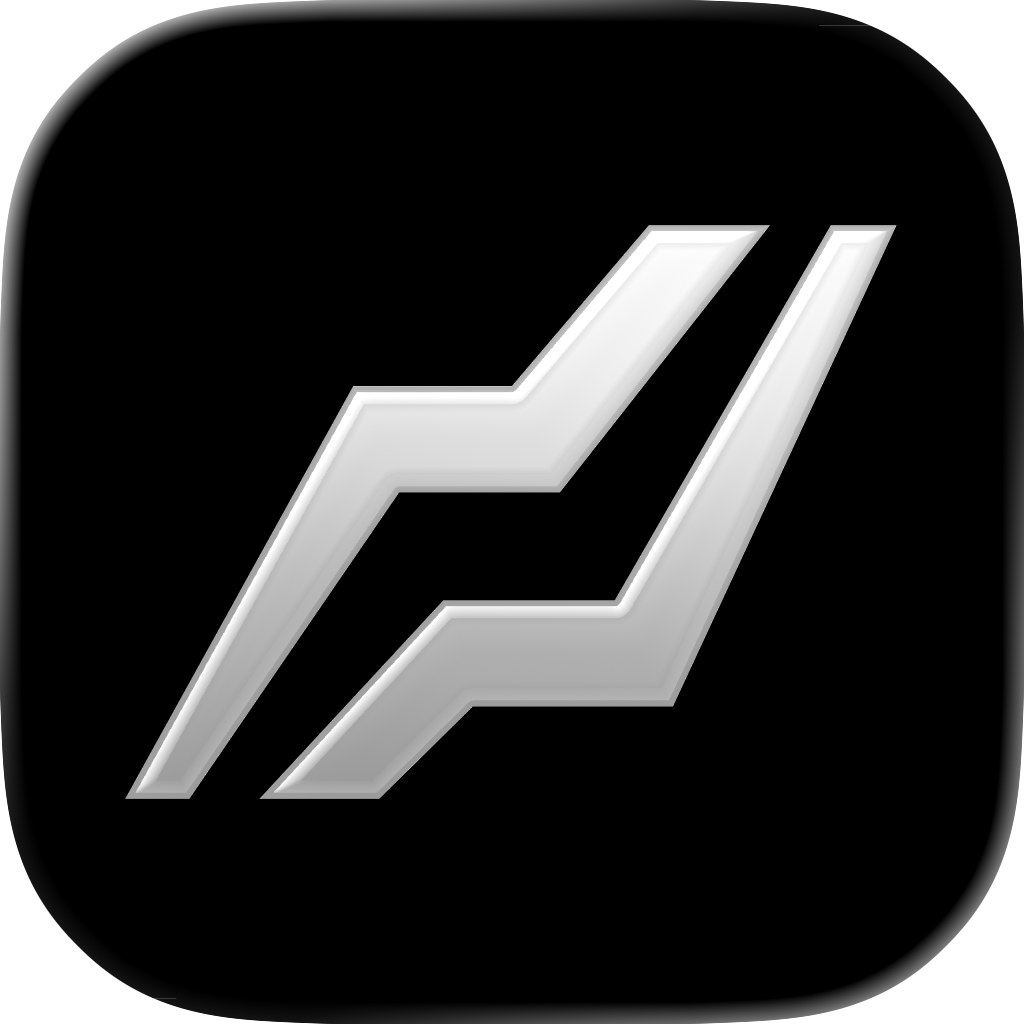
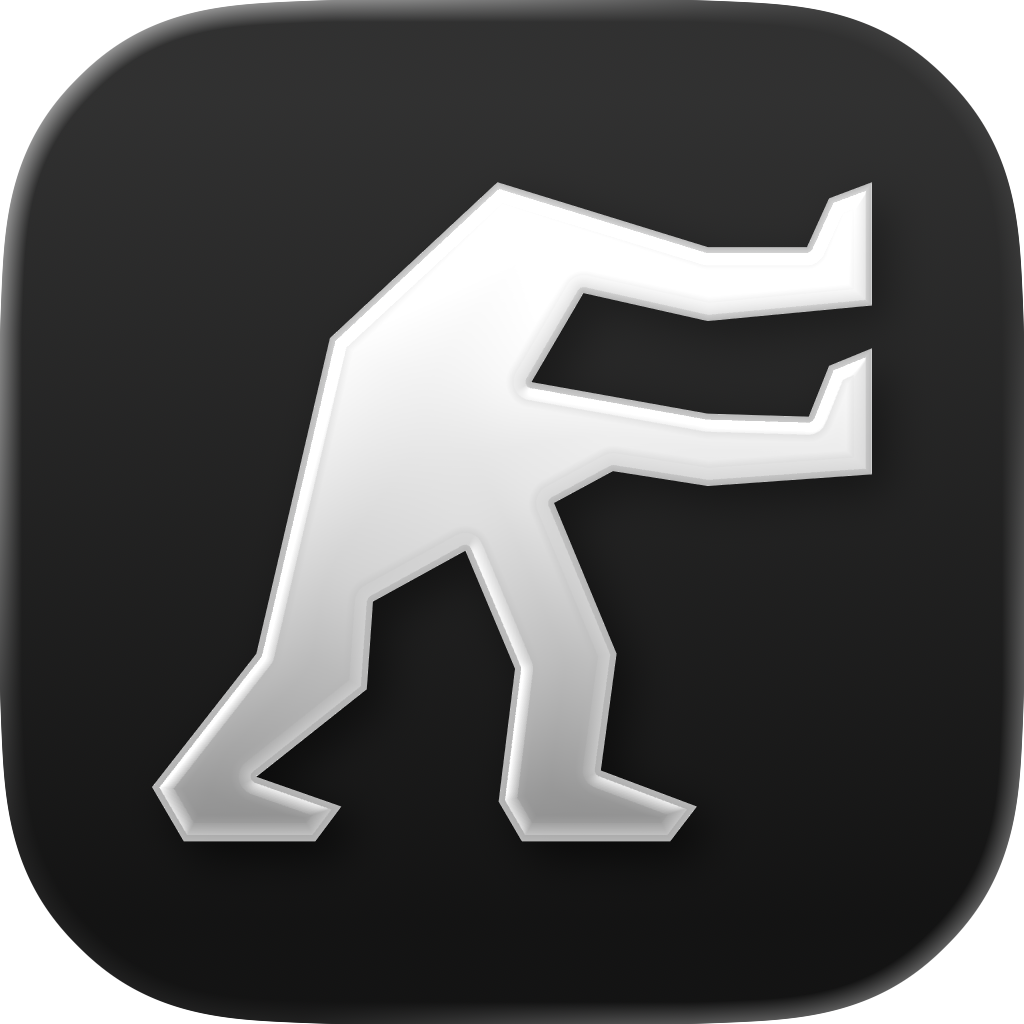
Rebrand to Pushed; drop the light/dark toggle (dark-only for now)
- Rename the app to "Pushed" everywhere user-facing: auth screen, page
  title, PWA manifest, share sheet, bug-report subject, CSV/JSON export
  filenames, and the privacy/terms pages. Internal storage keys and the
  "progressive overload" training term are intentionally left as-is.
- Swap in the new Pushed mark/wordmark SVGs and the new app icon
  (apple-touch-icon + favicon, cache-busted), plus an apple web-app title.
- Ship dark-only: force loadTheme() to 'dark' and remove the Appearance
  (Dark/Light/System) toggle from Settings and its plumbing. The light
  theme CSS stays in the tree, just unreachable until the toggle returns.

diff --git a/src/components/ScheduleModal.tsx b/src/components/ScheduleModal.tsx
@@ -9,7 +9,6 @@ import type { WorkoutLog } from '../types';
 import type { Exercise } from '../types';
 import type { WeightUnit, WeekStartDay } from '../hooks/useSettings';
 import { ACCENTS, ACCENT_ORDER, type AccentKey } from '../lib/accent';
-import type { ThemeMode } from '../lib/theme';
 import {
   CATEGORY_LABELS, CATEGORY_PALETTE,
   type CategoryColors, type CategoryKey,
@@ -46,8 +45,6 @@ interface Props {
   onSetHapticsEnabled: (on: boolean) => void;
   accent: AccentKey;
   onSetAccent: (key: AccentKey) => void;
-  theme: ThemeMode;
-  onSetTheme: (mode: ThemeMode) => void;
   categoryColors: CategoryColors;
   onSetCategoryColor: (key: CategoryKey, paletteKey: string) => void;
   bio: string | null;
@@ -267,8 +264,6 @@ export default function ScheduleModal({
   onSetHapticsEnabled,
   accent,
   onSetAccent,
-  theme,
-  onSetTheme,
   categoryColors,
   onSetCategoryColor,
   bio,
@@ -473,28 +468,6 @@ export default function ScheduleModal({
               both write the same setting. */}
           <div className="te-panel rounded-te-md overflow-hidden mt-3 divide-y divide-[color:var(--te-border)]">
             <div className="px-4 py-3.5">
-              <p className="text-[15px] font-medium te-t1 tracking-tight">Appearance</p>
-              <p className="text-[13px] te-t3 mt-0.5 leading-snug">Light or dark, or follow your device</p>
-              <div className="grid grid-cols-3 gap-2 mt-3">
-                {(['dark', 'light', 'system'] as const).map(mode => {
-                  const selected = theme === mode;
-                  const label = mode === 'dark' ? 'Dark' : mode === 'light' ? 'Light' : 'System';
-                  return (
-                    <button
-                      key={mode}
-                      type="button"
-                      onClick={() => onSetTheme(mode)}
-                      className={`${selected ? 'te-toggle-on' : 'te-toggle-off'} rounded-te-sm py-2.5 text-[13px] font-semibold tracking-tight`}
-                      style={{ color: selected ? 'var(--te-accent-contrast)' : 'var(--te-text-2)' }}
-                    >
-                      {label}
-                    </button>
-                  );
-                })}
-              </div>
-            </div>
-
-            <div className="px-4 py-3.5">
               <p className="text-[15px] font-medium te-t1 tracking-tight">Accent color</p>
               <p className="text-[13px] te-t3 mt-0.5 leading-snug">Toggles and body models</p>
               <div className="flex items-center gap-2.5 mt-3">
@@ -618,7 +591,7 @@ export default function ScheduleModal({
       <Modal open={dataMenuOpen} onClose={() => setDataMenuOpen(false)} title="Export data">
         <div className="te-panel rounded-te-md overflow-hidden divide-y divide-white/[0.05]">
           <button
-            onClick={() => downloadFile(buildCsv(logs, exercises), 'overload-export.csv', 'text/csv')}
+            onClick={() => downloadFile(buildCsv(logs, exercises), 'pushed-export.csv', 'text/csv')}
             className="w-full flex items-center justify-between px-4 py-3.5 active:bg-white/[0.04] transition-colors text-left"
           >
             <div>
@@ -630,7 +603,7 @@ export default function ScheduleModal({
           <button
             onClick={() => downloadFile(
               JSON.stringify({ exported_at: new Date().toISOString(), exercises, logs }, null, 2),
-              'overload-export.json', 'application/json',
+              'pushed-export.json', 'application/json',
             )}
             className="w-full flex items-center justify-between px-4 py-3.5 active:bg-white/[0.04] transition-colors text-left"
           >

diff --git a/public/terms.html b/public/terms.html
@@ -4,7 +4,7 @@
   <meta charset="UTF-8" />
   <meta name="viewport" content="width=device-width, initial-scale=1.0" />
   <meta name="robots" content="all" />
-  <title>Terms of Service — Overload</title>
+  <title>Terms of Service — Pushed</title>
   <style>
     :root { color-scheme: light dark; }
     * { box-sizing: border-box; }
@@ -39,17 +39,17 @@
 <body>
   <div class="wrap">
     <h1>Terms of Service</h1>
-    <p class="muted">Overload · Last updated 16 July 2026</p>
+    <p class="muted">Pushed · Last updated 16 July 2026</p>
 
     <p>
-      These Terms of Service ("Terms") govern your use of <strong>Overload</strong>
+      These Terms of Service ("Terms") govern your use of <strong>Pushed</strong>
       (the "Service"). By creating an account or using the Service, you agree to
       these Terms. If you do not agree, please do not use the Service.
     </p>
 
     <h2>1. The Service</h2>
     <p>
-      Overload is a gym logging and progress-tracking application that lets you
+      Pushed is a gym logging and progress-tracking application that lets you
       record workouts, track progress, and take part in friend leaderboards and
       competitions. We may add, change, or remove features over time.
     </p>
@@ -82,7 +82,7 @@
 
     <h2>5. Health and fitness disclaimer</h2>
     <p>
-      Overload is a tracking tool, not a medical or professional fitness service.
+      Pushed is a tracking tool, not a medical or professional fitness service.
       It does not provide medical advice. Exercise carries inherent risks. Consult
       a qualified physician before beginning any exercise program, and stop and seek
       medical attention if you experience pain or discomfort. You use the Service
@@ -105,7 +105,7 @@
 
     <h2>8. Limitation of liability</h2>
     <p>
-      To the fullest extent permitted by law, Overload and its operators will not be
+      To the fullest extent permitted by law, Pushed and its operators will not be
       liable for any indirect, incidental, special, consequential, or punitive
       damages, or for any loss of data, arising out of or related to your use of the
       Service.
@@ -132,7 +132,7 @@
     </p>
 
     <hr />
-    <p><a href="/privacy.html">Privacy Policy</a> · <a href="/">Back to Overload</a></p>
+    <p><a href="/privacy.html">Privacy Policy</a> · <a href="/">Back to Pushed</a></p>
 
     <div class="note">
       This document is provided as a general template. It is not legal advice.

diff --git a/public/privacy.html b/public/privacy.html
@@ -4,7 +4,7 @@
   <meta charset="UTF-8" />
   <meta name="viewport" content="width=device-width, initial-scale=1.0" />
   <meta name="robots" content="all" />
-  <title>Privacy Policy — Overload</title>
+  <title>Privacy Policy — Pushed</title>
   <style>
     :root { color-scheme: light dark; }
     * { box-sizing: border-box; }
@@ -39,10 +39,10 @@
 <body>
   <div class="wrap">
     <h1>Privacy Policy</h1>
-    <p class="muted">Overload · Last updated 16 July 2026</p>
+    <p class="muted">Pushed · Last updated 16 July 2026</p>
 
     <p>
-      This Privacy Policy explains how <strong>Overload</strong> ("Overload", "we",
+      This Privacy Policy explains how <strong>Pushed</strong> ("Pushed", "we",
       "us") collects, uses, and protects your information when you use our gym
       logging and progress-tracking application (the "Service"). By using the
       Service you agree to the practices described here.
@@ -97,7 +97,7 @@
 
     <h2>3. Google user data</h2>
     <p>
-      Overload's use and transfer of information received from Google APIs adheres
+      Pushed's use and transfer of information received from Google APIs adheres
       to the
       <a href="https://developers.google.com/terms/api-services-user-data-policy" target="_blank" rel="noopener">Google API Services User Data Policy</a>,
       including its Limited Use requirements. We use Google sign-in solely to
@@ -158,7 +158,7 @@
     </p>
 
     <hr />
-    <p><a href="/terms.html">Terms of Service</a> · <a href="/">Back to Overload</a></p>
+    <p><a href="/terms.html">Terms of Service</a> · <a href="/">Back to Pushed</a></p>
 
     <div class="note">
       This document is provided as a general template describing the app's actual

diff --git a/src/views/AuthView.tsx b/src/views/AuthView.tsx
@@ -249,12 +249,12 @@ export default function AuthView({ onSignIn, onSignUp, onResend, onVerifyOtp, on
           <div className="flex flex-col items-center gap-2.5 w-full">
             <img
               src="/logo-mark.svg"
-              alt="Overload"
-              className="w-20 h-20"
+              alt="Pushed"
+              className="h-20 w-auto"
             />
             <div className="flex flex-col items-center gap-1">
               <p className="text-[20px] font-semibold te-t1 tracking-[-0.17px] text-center inline-flex items-center gap-1.5">
-                Welcome back to Overload!
+                Welcome back to Pushed!
                 <span className="inline-flex items-center" style={{ transform: 'rotate(35deg)' }} aria-hidden><IconWave /></span>
               </p>
               <p className="text-[17px]" style={{ color: 'var(--te-text-3)' }}>
@@ -358,13 +358,13 @@ export default function AuthView({ onSignIn, onSignUp, onResend, onVerifyOtp, on
             />
             <img
               src="/apple-touch-icon.png"
-              alt="Overload"
+              alt="Pushed"
               className="relative w-[44px] h-[44px] rounded-te-md"
               style={{ boxShadow: '0 4px 16px rgba(0,0,0,0.5)' }}
             />
           </div>
           <p className="text-[20px] font-bold te-t1" style={{ letterSpacing: '-0.03em' }}>
-            Overload
+            Pushed
           </p>
         </div>
 

diff --git a/src/App.tsx b/src/App.tsx
@@ -332,7 +332,6 @@ function MainApp({ userId, onSignOut, userName, onUpdateName }: {
     soundEnabled, setSoundEnabled,
     hapticsEnabled, setHapticsEnabled,
     accent, setAccent,
-    theme, setTheme,
     categoryColors, setCategoryColor,
     weekStartDay, setWeekStartDay,
   } = useSettings();
@@ -1265,8 +1264,6 @@ function MainApp({ userId, onSignOut, userName, onUpdateName }: {
         onSetHapticsEnabled={setHapticsEnabled}
         accent={accent}
         onSetAccent={setAccent}
-        theme={theme}
-        onSetTheme={setTheme}
         categoryColors={categoryColors}
         onSetCategoryColor={setCategoryColor}
         bio={profileRow?.bio ?? null}
@@ -1305,7 +1302,7 @@ function PasswordResetScreen({ onUpdate }: { onUpdate: (pw: string) => Promise<s
         <div className="flex flex-col items-center gap-3">
           <img src="/apple-touch-icon.png" alt="" className="w-[72px] h-[72px] rounded-te-md"
             style={{ boxShadow: '0 8px 32px rgba(0,0,0,0.55)' }} />
-          <p className="text-[32px] font-bold te-t1" style={{ letterSpacing: '-0.035em' }}>Overload</p>
+          <p className="text-[32px] font-bold te-t1" style={{ letterSpacing: '-0.035em' }}>Pushed</p>
         </div>
         <div className="rounded-te-lg p-6 space-y-4"
           style={{ background: 'var(--te-surface-3)', border: '1px solid var(--te-border)', boxShadow: '0 24px 64px rgba(0,0,0,0.5)' }}>

diff --git a/index.html b/index.html
@@ -2,14 +2,15 @@
 <html lang="en">
   <head>
     <meta charset="UTF-8" />
-    <link rel="icon" type="image/png" href="/favicon.png?v=3" />
-    <link rel="apple-touch-icon" href="/apple-touch-icon.png" />
+    <link rel="icon" type="image/png" href="/favicon.png?v=4" />
+    <link rel="apple-touch-icon" href="/apple-touch-icon.png?v=4" />
     <link rel="manifest" href="/manifest.json" />
+    <meta name="apple-mobile-web-app-title" content="Pushed" />
     <meta name="viewport" content="width=device-width, initial-scale=1.0, viewport-fit=cover, maximum-scale=1" />
     <meta name="apple-mobile-web-app-capable" content="yes" />
     <meta name="apple-mobile-web-app-status-bar-style" content="black-translucent" />
     <meta name="theme-color" content="#000000" />
-    <title>Progressive overload tracker</title>
+    <title>Pushed</title>
     <link rel="preconnect" href="https://fonts.googleapis.com">
     <link rel="preconnect" href="https://fonts.gstatic.com" crossorigin>
     <link href="https://fonts.googleapis.com/css2?family=Geist:wght@400;500;600&family=Geist+Mono:wght@400;500;600&display=swap" rel="stylesheet">

diff --git a/src/lib/theme.ts b/src/lib/theme.ts
@@ -8,10 +8,9 @@ export type ThemeMode = 'dark' | 'light' | 'system';
 const KEY = 'settings_theme';
 
 export function loadTheme(): ThemeMode {
-  try {
-    const v = localStorage.getItem(KEY);
-    if (v === 'dark' || v === 'light' || v === 'system') return v;
-  } catch { /* ignore */ }
+  // The light theme and its toggle are not shipped yet — the app is dark-only,
+  // so any previously stored preference (light/system) is ignored and everyone
+  // resolves to dark. Re-enable the stored lookup when the toggle returns.
   return 'dark';
 }
 

diff --git a/src/views/ProfileView.tsx b/src/views/ProfileView.tsx
@@ -365,7 +365,7 @@ function FriendsSection({ friends, inviteUrl }: { friends: FriendsApi; inviteUrl
   async function share() {
     if (!inviteUrl) return;
     if (navigator.share) {
-      try { await navigator.share({ title: 'Add me on Overload', url: inviteUrl }); return; } catch { /* fall through */ }
+      try { await navigator.share({ title: 'Add me on Pushed', url: inviteUrl }); return; } catch { /* fall through */ }
     }
     try {
       await navigator.clipboard.writeText(inviteUrl);

diff --git a/src/lib/bugReport.ts b/src/lib/bugReport.ts
@@ -72,6 +72,6 @@ export function buildBugReportUrl(opts?: { context?: string; error?: unknown }):
     if (e?.stack) lines.push(`Stack: ${String(e.stack).split('\n').slice(0, 5).join(' | ')}`);
   }
 
-  const subject = 'Overload — Bug report';
+  const subject = 'Pushed — Bug report';
   return `mailto:${BUG_REPORT_EMAIL}?subject=${encodeURIComponent(subject)}&body=${encodeURIComponent(lines.join('\n'))}`;
 }
